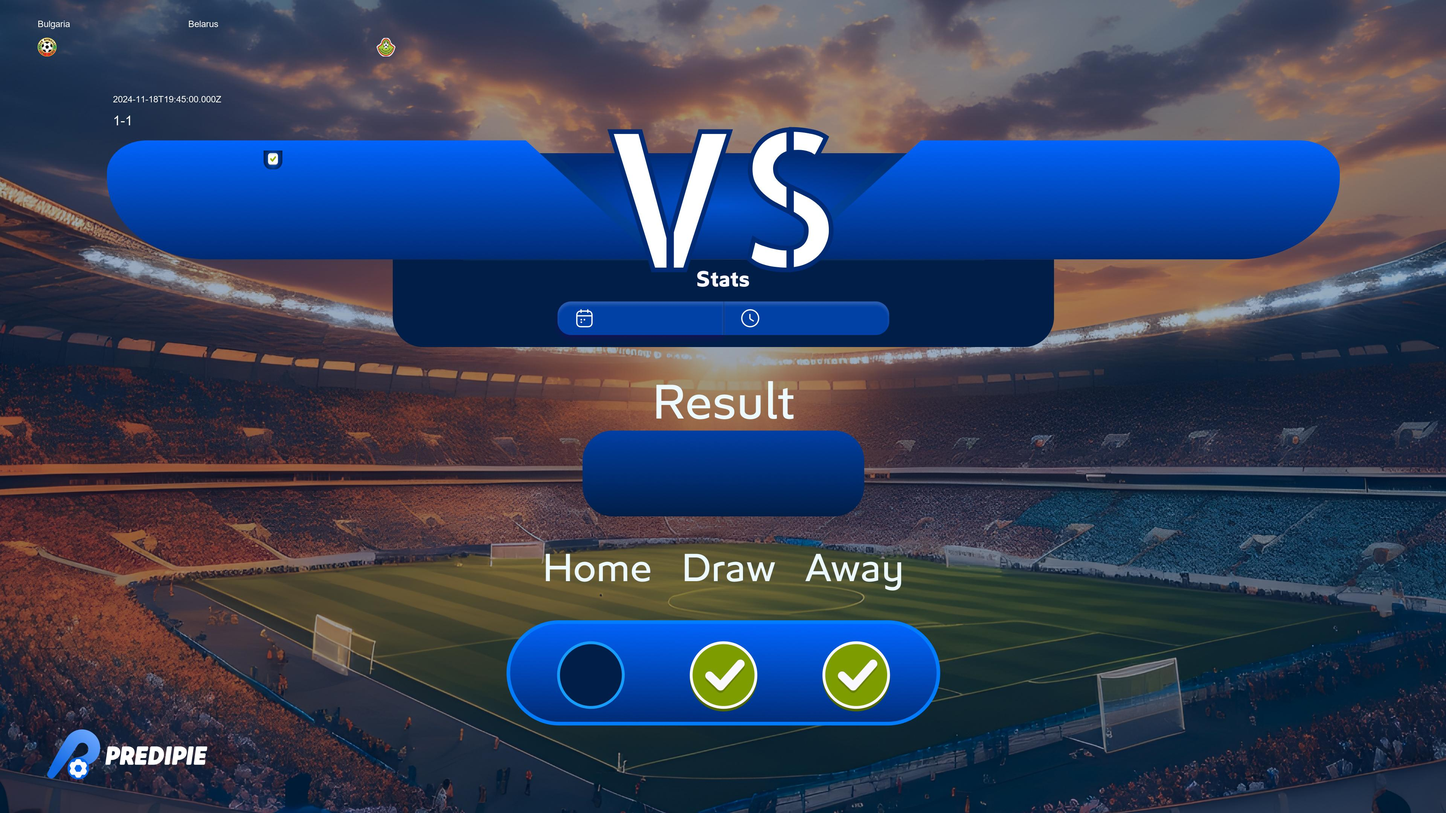
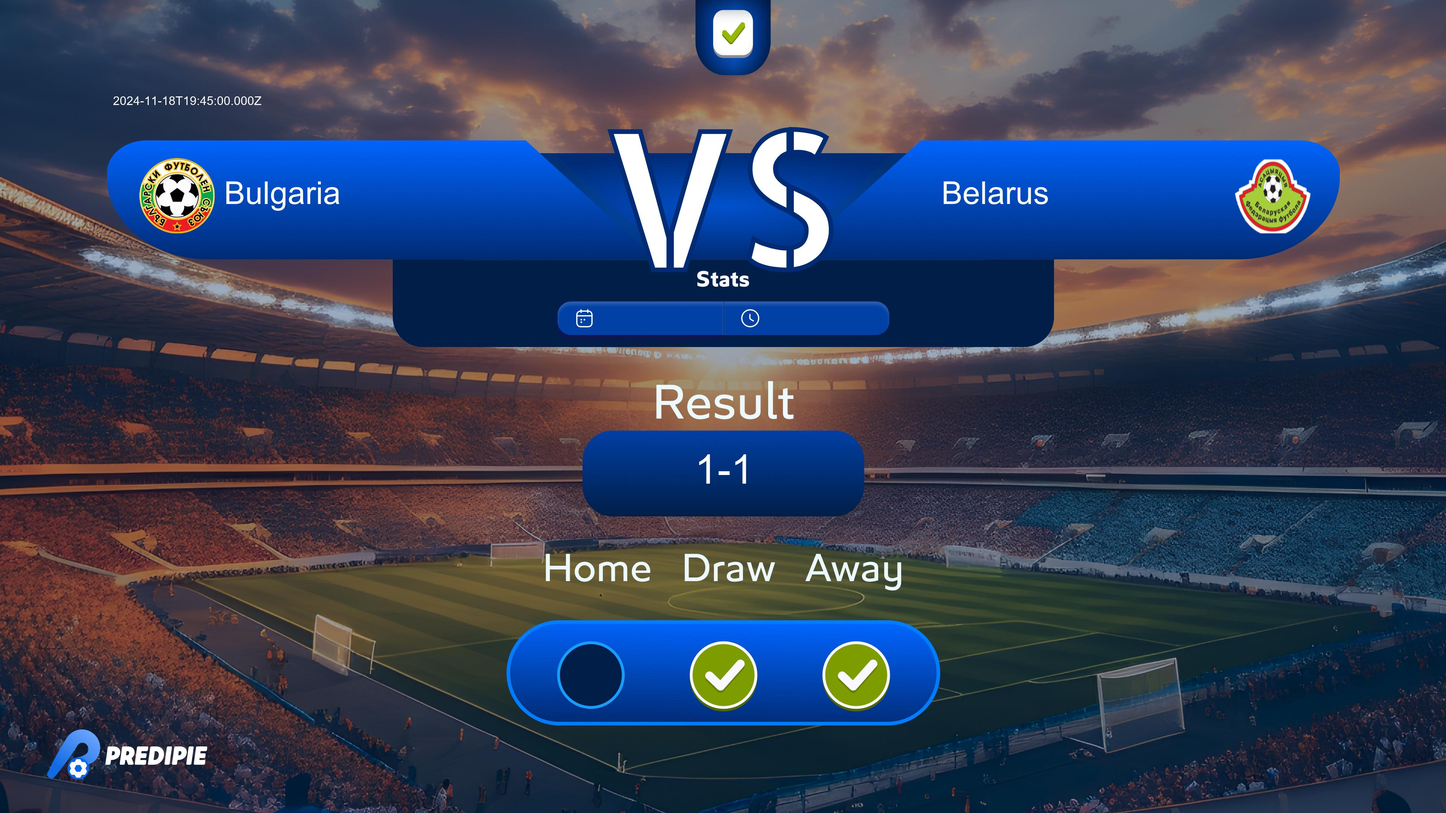
fix: positions of second images of first video

diff --git a/Predipie-Json/newsrc/firstVideoImageBuilder/image_generator.py b/Predipie-Json/newsrc/firstVideoImageBuilder/image_generator.py
@@ -61,70 +61,60 @@ class ImageGenerator:
             print("No data loaded for image generation.")
             return
 
-        # موقعیتهای نمایش اطلاعات
         positions = {
-            "home_team_name": (100, 50),
-            "home_team_logo": (100, 100),
-            "away_team_name": (500, 50),
-            "away_team_logo": (1000, 100),
-            "startTimestamp": (300, 250),
-            "Score": (300, 300),
-            "icon": (700, 400)  # موقعیت برای نمایش آیکون True یا False
+            "home_team_name": (595, 465),
+            "home_team_logo": (370, 420),
+            "away_team_name": (2500, 465),
+            "away_team_logo": (3280, 420),
+            "startTimestamp": (300, 250),  
+            "Score": (1845, 1187),
+            "icon": (1847, 0) 
         }
 
         for game_id, match_info in enumerate(data, start=1):
-            # انتخاب قالب بر اساس مقدار `Card`
             card_value = match_info.get("Card", "none")
             template_path = self.template_map.get(card_value, ConfigAPI.TEMPLATE_PATH)
 
-            # تولید اولین عکس (اولین قالب)
             output_path_1 = os.path.join(self.output_folder, f"game_{game_id}_prediction1.jpg")
             template_manager_1 = TemplateManager(ConfigAPI.TEMPLATE_PATH)
 
-            # اضافه کردن اطلاعات به اولین عکس
             self.add_text_and_logos(template_manager_1, match_info, positions)
             template_manager_1.save_image(output_path_1)
             print(f"Saved image 1 for game {game_id} at {output_path_1}")
 
-            # تولید دومین عکس (قالب بر اساس `Card`)
             output_path_2 = os.path.join(self.output_folder, f"game_{game_id}_prediction2.jpg")
             template_manager_2 = TemplateManager(template_path)
 
-            # اضافه کردن اطلاعات به دومین عکس
             self.add_text_and_logos(template_manager_2, match_info, positions)
 
-            # انتخاب آیکون True یا False بر اساس شرطها و اضافه کردن آن به دومین عکس
             score = match_info.get("Score", "0-0")
             icon_path = self.select_icon(card_value, score)
-            icon_image = Image.open(icon_path).convert("RGBA").resize((50, 50))
-            template_manager_2.add_image(icon_image, position=positions["icon"], size=(50, 50))
+            icon_image = Image.open(icon_path).convert("RGBA").resize((200, 200))
+            template_manager_2.add_image(icon_image, position=positions["icon"], size=(200, 200))
 
             # ذخیره دومین عکس
             template_manager_2.save_image(output_path_2)
             print(f"Saved image 2 for game {game_id} at {output_path_2}")
 
-    def add_text_and_logos(self, template_manager, match_info, positions):
-        """
-        افزودن متنها و لوگوهای تیمها به تصویر.
-        """
-        template_manager.add_text(match_info.get('home_team_name', 'Home Team'), position=positions["home_team_name"])
-        template_manager.add_text(match_info.get('away_team_name', 'Away Team'), position=positions["away_team_name"])
-        template_manager.add_text(match_info.get('startTimestamp', 'Date Not Available'), position=positions["startTimestamp"])
-        template_manager.add_text(match_info.get('Score', 'Final Score'), position=positions["Score"], font_size=36)
 
-        # افزودن لوگوی تیمها
+    def add_text_and_logos(self, template_manager, match_info, positions):
+
+        template_manager.add_text(match_info.get('home_team_name', 'Home Team'), position=positions["home_team_name"], font_size=84)  
+        template_manager.add_text(match_info.get('away_team_name', 'Away Team'), position=positions["away_team_name"], font_size=84)  
+        template_manager.add_text(match_info.get('startTimestamp', 'Date Not Available'), position=positions["startTimestamp"], font_size=32)  
+        template_manager.add_text(match_info.get('Score', 'Final Score'), position=positions["Score"], font_size=108) 
         home_logo = match_info.get('home_team_logo', '')
         if home_logo.startswith("http"):
             logo_image = self.download_image(home_logo)
             if logo_image:
-                template_manager.add_image(logo_image, position=positions["home_team_logo"], size=(50, 50))
+                template_manager.add_image(logo_image, position=positions["home_team_logo"], size=(200, 200)) 
         else:
-            template_manager.add_image(home_logo, position=positions["home_team_logo"], size=(50, 50))
+            template_manager.add_image(home_logo, position=positions["home_team_logo"], size=(200, 200))
 
         away_logo = match_info.get('away_team_logo', '')
         if away_logo.startswith("http"):
             logo_image = self.download_image(away_logo)
             if logo_image:
-                template_manager.add_image(logo_image, position=positions["away_team_logo"], size=(50, 50))
+                template_manager.add_image(logo_image, position=positions["away_team_logo"], size=(200, 200)) 
         else:
-            template_manager.add_image(away_logo, position=positions["away_team_logo"], size=(50, 50))
+            template_manager.add_image(away_logo, position=positions["away_team_logo"], size=(200, 200))
